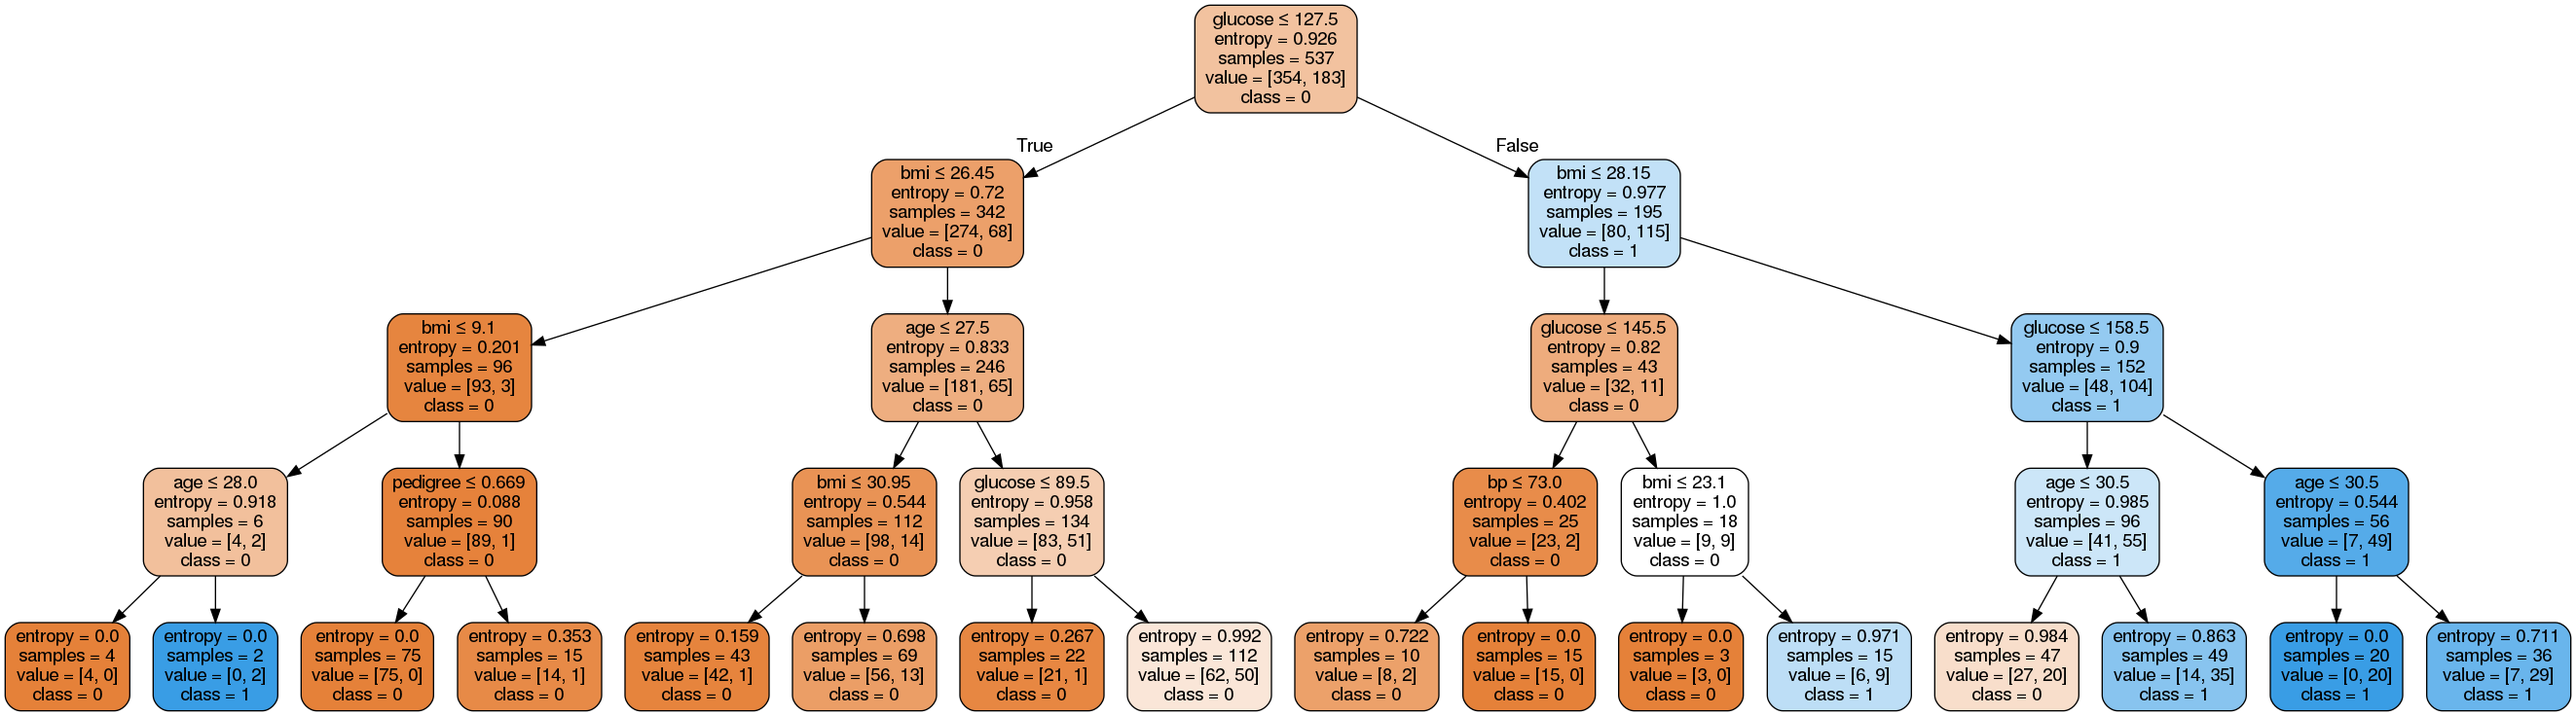
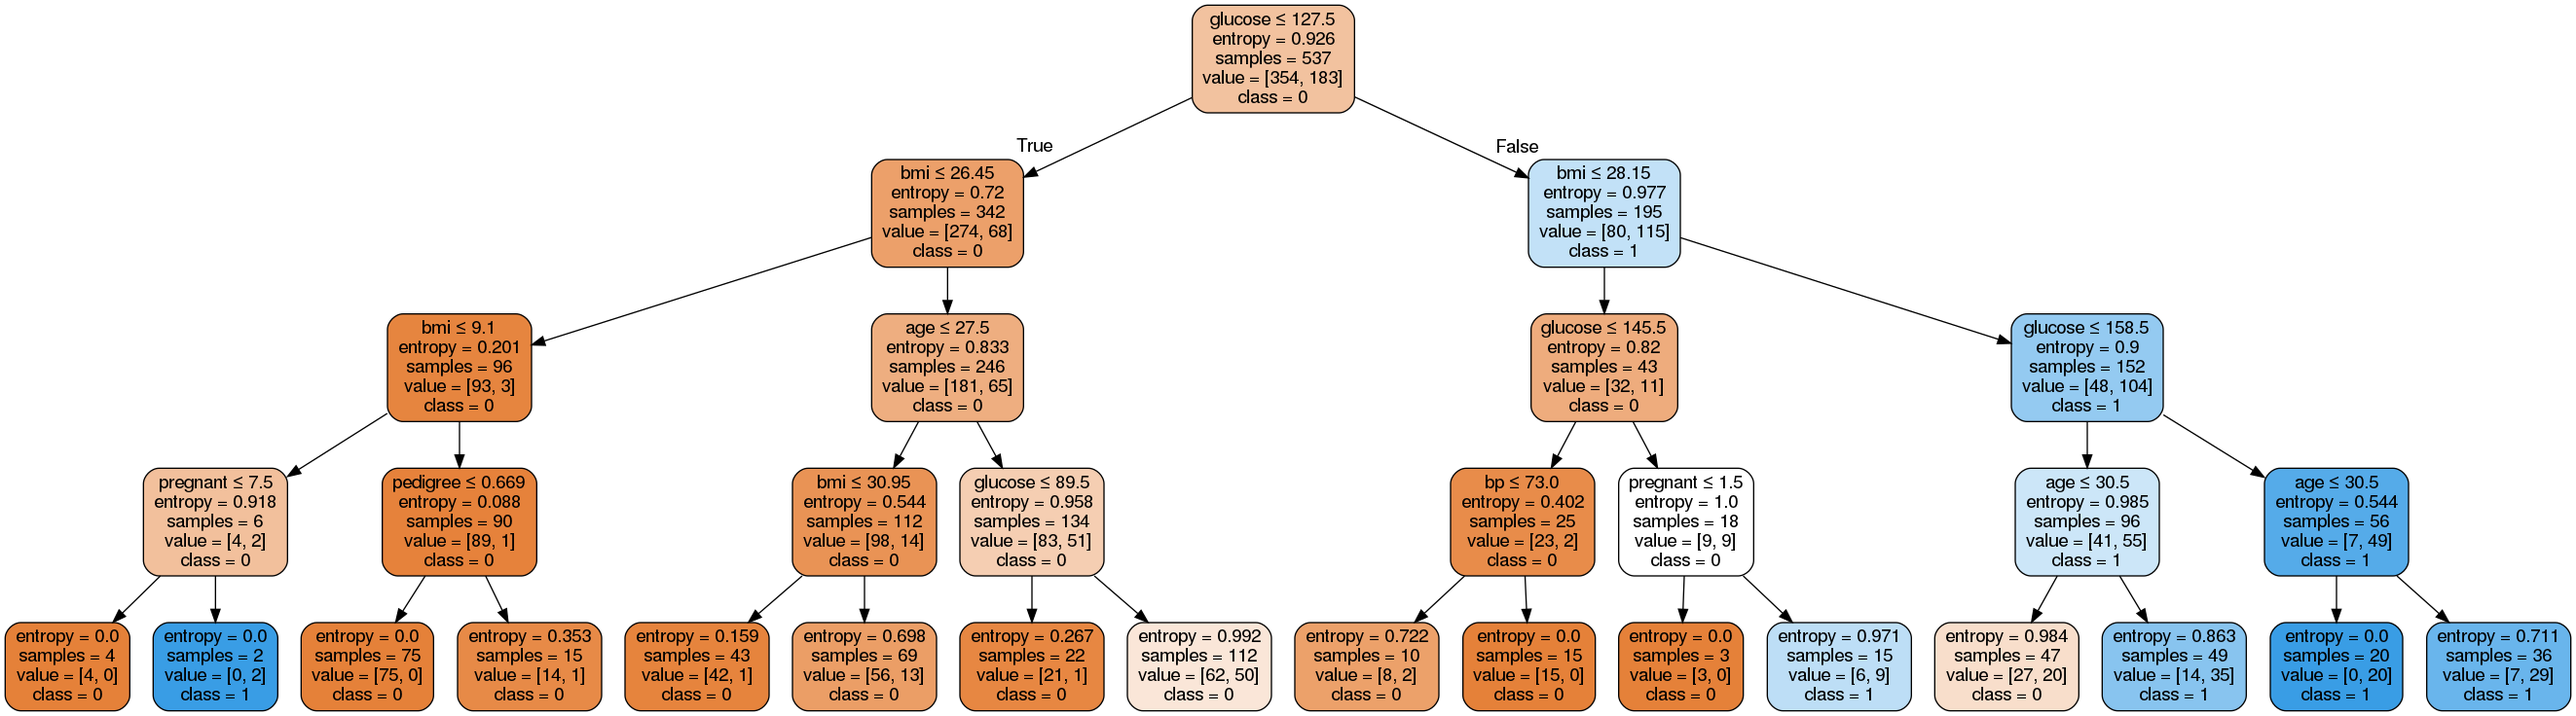
formatting

diff --git a/iris.py b/iris.py
@@ -50,7 +50,7 @@ X_train, X_test, y_train, y_test = train_test_split(X, y, test_size=0.3, random_
 
 
 criterion = ["entropy","gini"]
-depth = 6
+depth = 4
 entropy_accuracy_array = []
 gini_accuracy_array = []
 

diff --git a/prima.py b/prima.py
@@ -49,7 +49,7 @@ X_train, X_test, y_train, y_test = train_test_split(X, y, test_size=0.3, random_
 
 
 criterion = ["entropy","gini"]
-depth = 6
+depth = 4
 entropy_accuracy_array = []
 gini_accuracy_array = []
 
